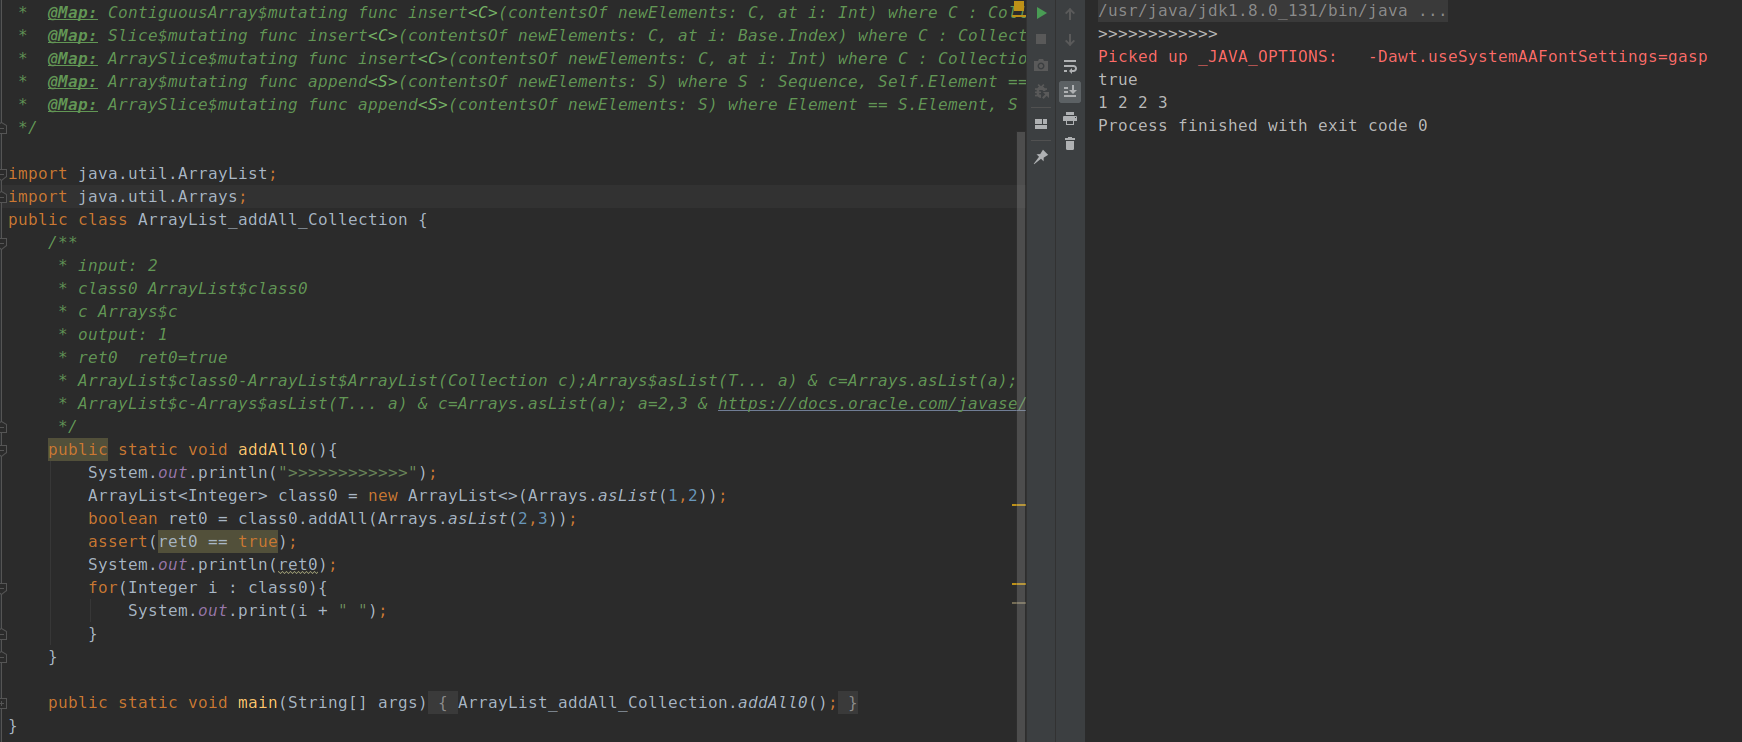
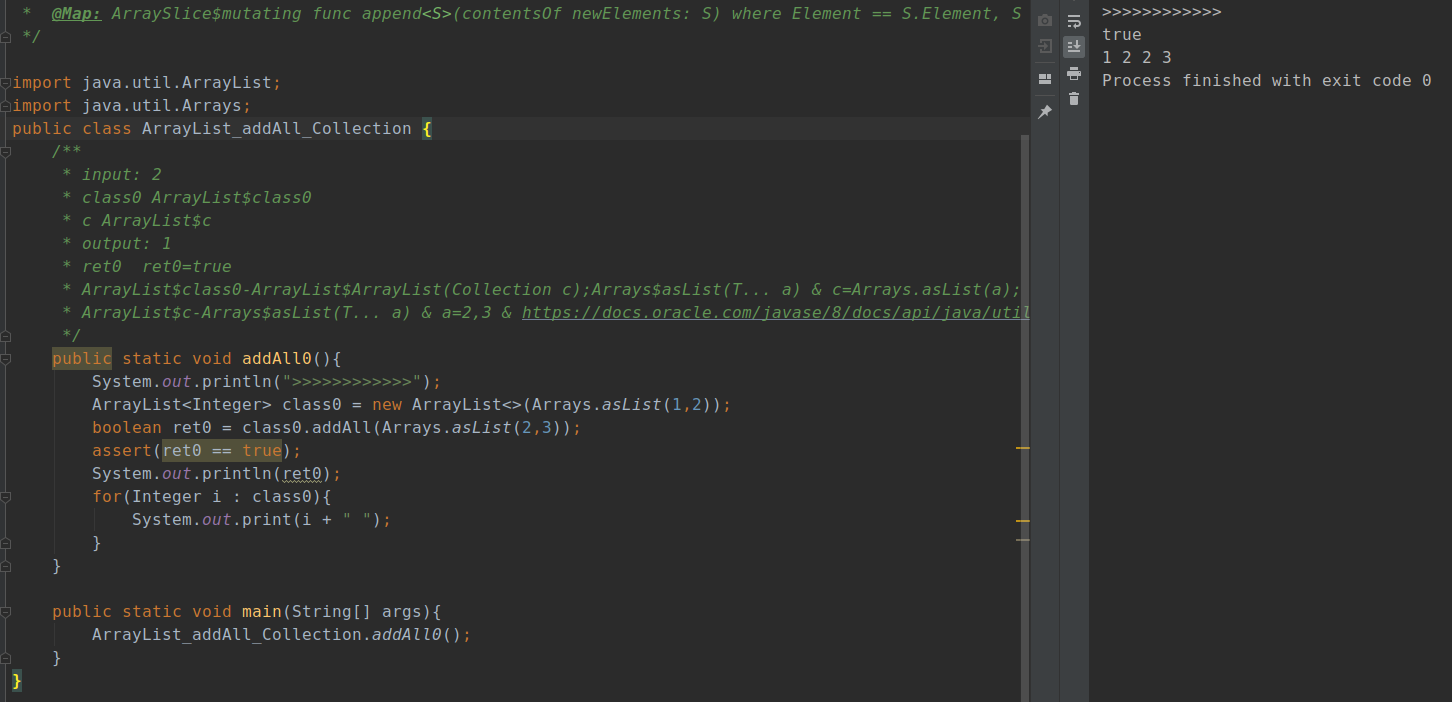
update ArrayList_addAll_Collection

Changed region(s): [[0.0, 0.0, 0.9917, 1.0], [0.0, 0.8675, 0.4959, 0.9872]]

diff --git a/MF1933125/java/ArrayList_addAll_Collection.java b/MF1933125/java/ArrayList_addAll_Collection.java
@@ -17,7 +17,7 @@ public class ArrayList_addAll_Collection {
     /**
      * input: 2
      * class0 ArrayList$class0
-     * c Arrays$c
+     * c ArrayList$c
      * output: 1
      * ret0  ret0=true
      * ArrayList$class0-ArrayList$ArrayList(Collection c);Arrays$asList(T... a) & c=Arrays.asList(a); a=1,2 & https://docs.oracle.com/javase/8/docs/api/java/util/LinkedList.html
